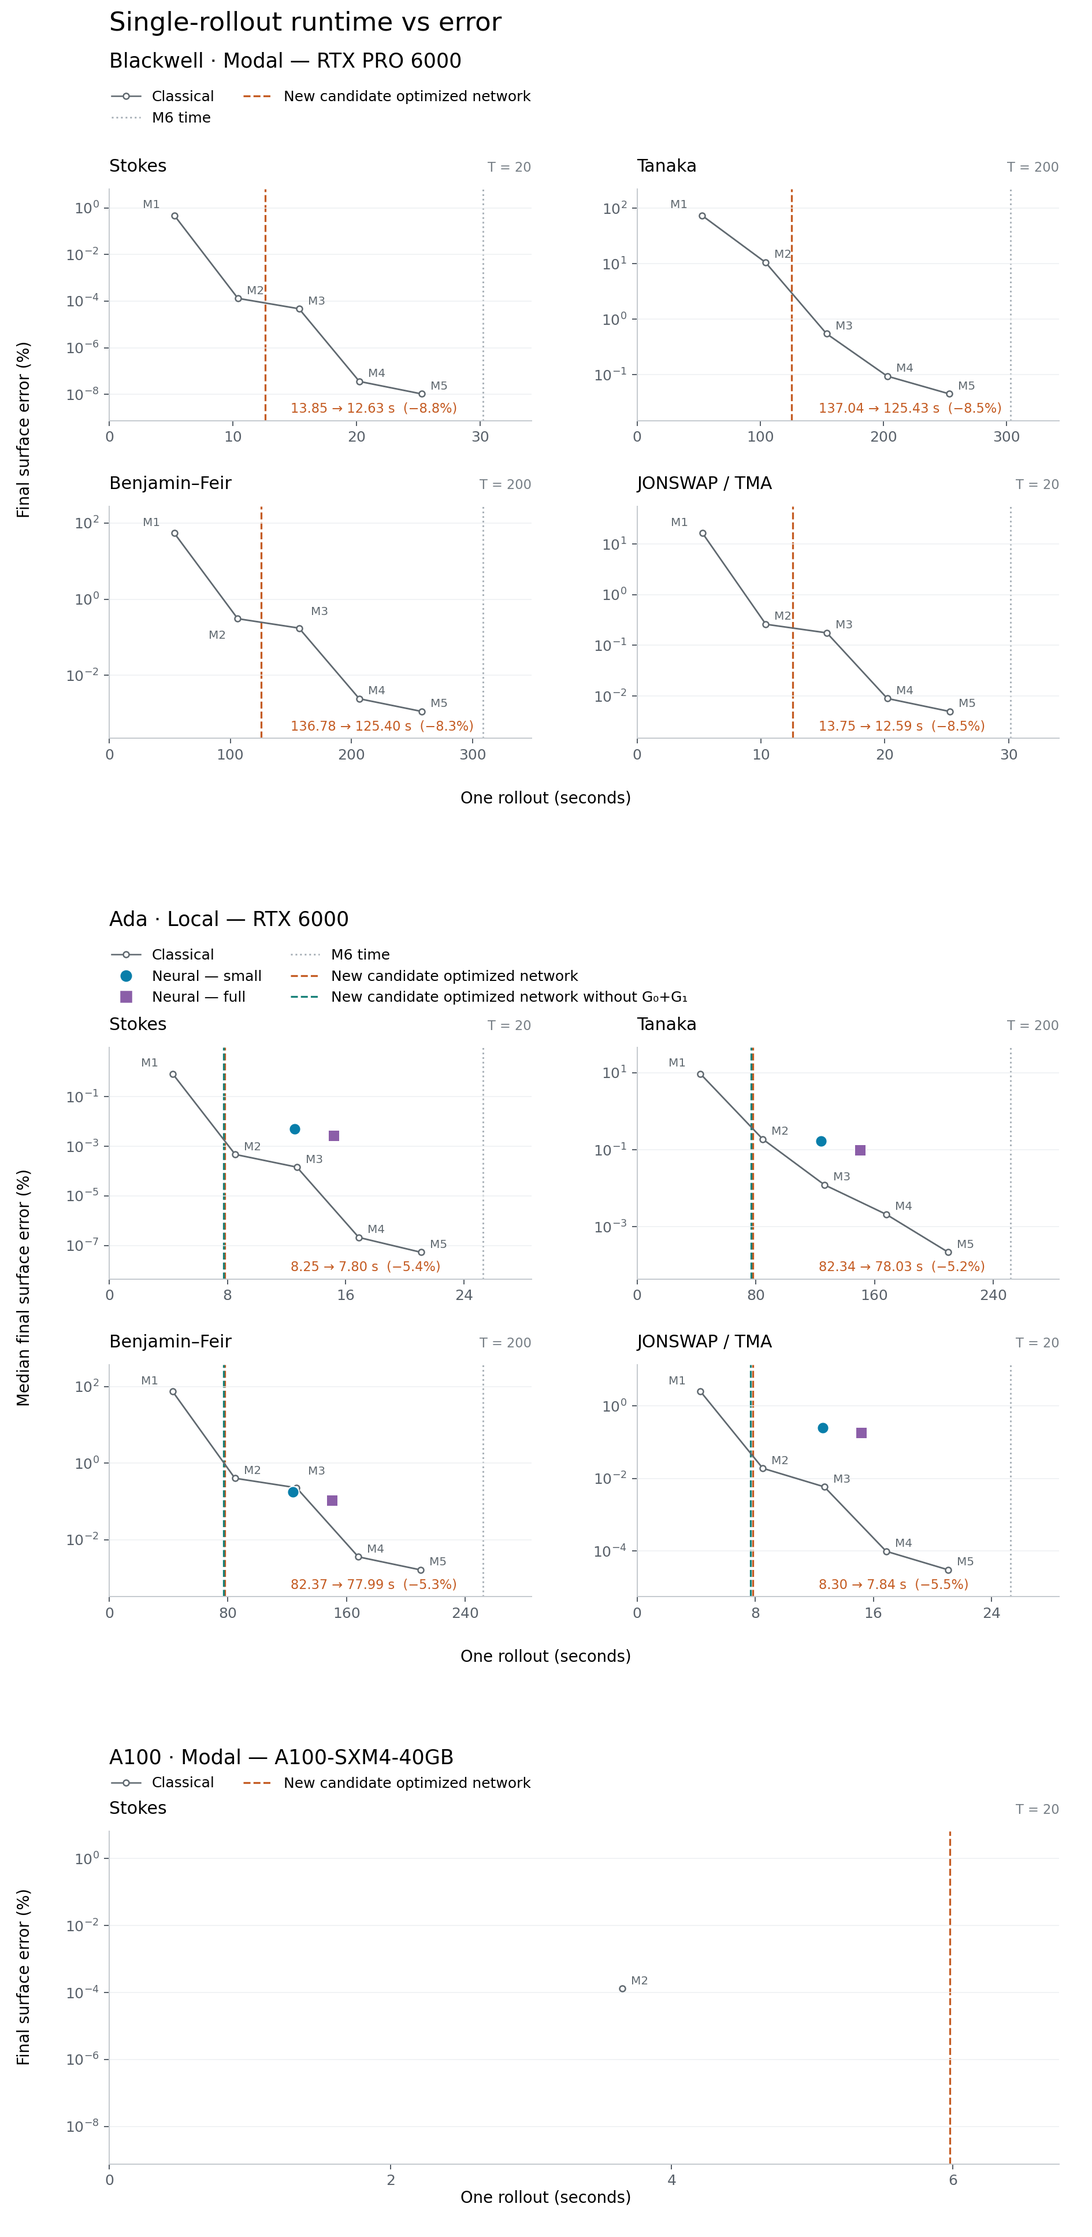
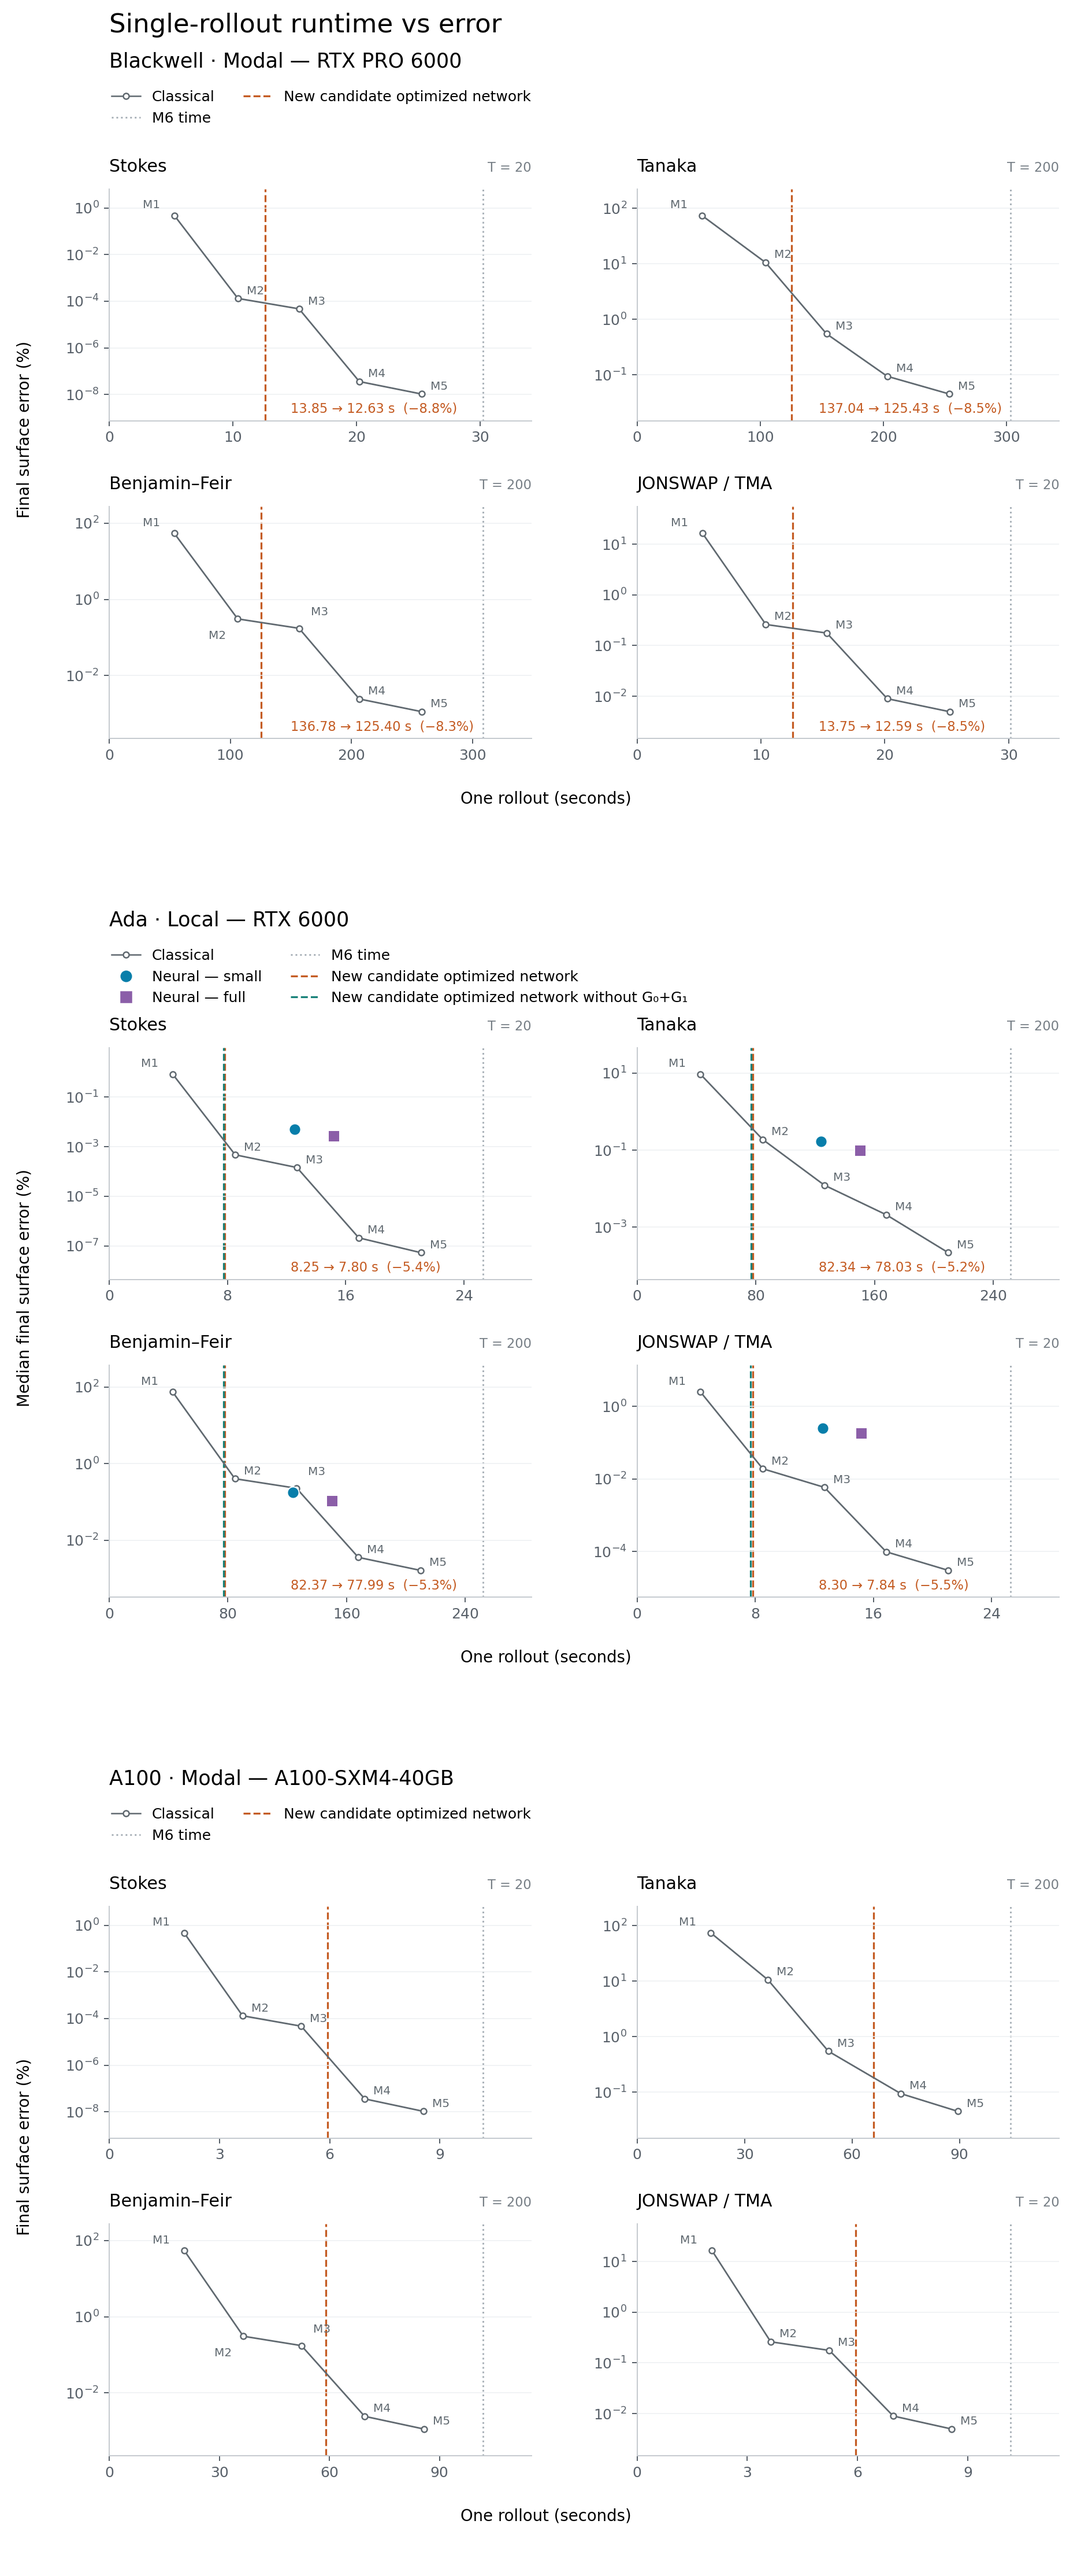
Complete A100 four-family rollout panel in Figure 12

diff --git a/paper-plots/plot_neural_advantage.py b/paper-plots/plot_neural_advantage.py
@@ -49,16 +49,13 @@ def draw_comparison(args: argparse.Namespace, fig: Figure | SubFigure, heading: 
         "axes.edgecolor": "#c6cbd0", "grid.color": "#edf0f2", "grid.linewidth": 0.6,
         "xtick.color": "#59616a", "ytick.color": "#59616a",
     })
-    families = tuple(item for item in FAMILIES if not args.single_case or item[0] in warm["families"])
-    single_panel = len(families) == 1
-    axes = fig.subplots(1 if single_panel else 2, 1 if single_panel else 2, squeeze=False)
+    axes = fig.subplots(2, 2)
     fig.subplots_adjust(left=0.10, right=0.97, bottom=0.14,
                         top=0.78 if candidate or baseline_free else 0.81, hspace=0.37, wspace=0.25)
-    has_m6 = False
-    for ax, (family, title) in zip(axes.flat, families, strict=True):
+    for ax, (family, title) in zip(axes.flat, FAMILIES, strict=True):
         if args.single_case:
             timing = warm["families"][family]
-            orders = np.asarray([order for order in range(1, 7) if f"M{order}" in timing["methods"]])
+            orders = np.arange(1, 7)
             seconds = np.asarray([np.median(timing["methods"][f"M{order}"]["seconds"]) for order in orders])
             errors = 100 * np.asarray([timing["methods"][f"M{order}"]["cached_reference_terminal_eta_error"] for order in orders])
             horizon = timing["horizon"]
@@ -82,10 +79,9 @@ def draw_comparison(args: argparse.Namespace, fig: Figure | SubFigure, heading: 
         ax.yaxis.set_major_locator(LogLocator(numticks=5))
         ax.yaxis.set_minor_locator(NullLocator())
         ax.grid(axis="y", zorder=0)
-        shown = orders != 6
-        ax.plot(seconds[shown], errors[shown], "o-", color="#606970", ms=4,
+        ax.plot(seconds[:-1], errors[:-1], "o-", color="#606970", ms=4,
                 markerfacecolor="white", lw=1.1, zorder=2)
-        for order, x, y in zip(orders[shown], seconds[shown], errors[shown], strict=True):
+        for order, x, y in zip(orders[:-1], seconds[:-1], errors[:-1], strict=True):
             offset = (8, 9) if family == "benjamin_feir" and order == 3 else (6, 3)
             if (candidate or baseline_free) and order == 1:
                 offset = (-22, 5)
@@ -93,9 +89,7 @@ def draw_comparison(args: argparse.Namespace, fig: Figure | SubFigure, heading: 
                 offset = (-20, -14)
             ax.annotate(f"M{order}", (x, y), xytext=offset, textcoords="offset points",
                         color="#606970", fontsize=8)
-        if 6 in orders:
-            has_m6 = True
-            ax.axvline(seconds[orders == 6][0], color="#aab2b9", ls=":", lw=1.2, zorder=1)
+        ax.axvline(seconds[-1], color="#aab2b9", ls=":", lw=1.2, zorder=1)
         right = float(seconds.max())
         for run, name, _label, color, marker in (() if args.single_case else RUNS):
             source = next((ROOT / "outputs" / run).glob(
@@ -137,7 +131,7 @@ def draw_comparison(args: argparse.Namespace, fig: Figure | SubFigure, heading: 
         Line2D([], [], color="#606970", marker="o", markerfacecolor="white", ms=4, lw=1, label="Classical"),
         *[Line2D([], [], color=color, marker=marker, ls="none", ms=7, label=f"Neural — {name}")
           for _, name, _, color, marker in (() if args.single_case else reversed(RUNS))],
-        *([Line2D([], [], color="#aab2b9", ls=":", lw=1.2, label="M6 time")] if has_m6 else []),
+        Line2D([], [], color="#aab2b9", ls=":", lw=1.2, label="M6 time"),
         *[Line2D([], [], color=color, ls="--", lw=1.3, label=label)
           for comparison, color, label in overlays if comparison],
     ], loc="upper left", bbox_to_anchor=(0.09, 0.895 if args.single_case and not heading else 0.91),
@@ -155,7 +149,7 @@ if __name__ == "__main__":
     parser.add_argument("--candidate-method", default="fused")
     parser.add_argument("--candidate-previous-method", help="Show the runtime reduction against this method in the same timing files.")
     parser.add_argument("--no-baseline-timings", type=Path, help="Overlay speed-only full rollouts with model G0+G1 omitted.")
-    parser.add_argument("--stack-hardware", action="store_true", help="Stack Blackwell, Ada, and the measured A100 Stokes comparison.")
+    parser.add_argument("--stack-hardware", action="store_true", help="Stack the four-family Blackwell, Ada, and A100 comparisons.")
     parser.add_argument("--single-case", action="store_true", help="Plot classical single-case errors against cached M6 and candidate timing lines, without archived model points.")
     parser.add_argument("--output-name", type=Path, help="Output stem, relative to paper-plots/figures or absolute.")
     args = parser.parse_args()
@@ -181,17 +175,19 @@ if __name__ == "__main__":
         modal.candidate_previous_method = "fused_front"
         modal.no_baseline_timings = None
         a100 = argparse.Namespace(**vars(modal))
-        a100.timings = ROOT / "outputs/modal_a100_20260925/stokes_rollouts.json"
-        a100.classical_timings = None
-        a100.candidate_timings = [a100.timings]
+        a100.timings = ROOT / "outputs/modal_a100_20260925_short_full/rollouts.json"
+        a100.classical_timings = [
+            ROOT / f"outputs/modal_a100_20260925_{family}_full/rollouts.json"
+            for family in ("tanaka", "bf")
+        ]
+        a100.candidate_timings = [a100.timings, *a100.classical_timings]
         a100.candidate_previous_method = None
-        fig = plt.figure(figsize=(10.5, 21.5))
+        fig = plt.figure(figsize=(10.5, 24.75))
         fig.suptitle("Single-rollout runtime vs error", y=0.995, fontsize=18, ha="left", x=0.10)
-        blackwell, ada, ampere = fig.subfigures(3, 1, height_ratios=(8.25, 8.25, 5))
+        blackwell, ada, ampere = fig.subfigures(3, 1)
         draw_comparison(modal, blackwell, "Blackwell · Modal — RTX PRO 6000")
         draw_comparison(args, ada, "Ada · Local — RTX 6000")
         draw_comparison(a100, ampere, "A100 · Modal — A100-SXM4-40GB")
-        ampere.axes[0].set_ylim(blackwell.axes[0].get_ylim())
     else:
         fig = plt.figure(figsize=(10.5, 8))
         draw_comparison(args, fig)

diff --git a/experiments/experiments-2026-09-25.md b/experiments/experiments-2026-09-25.md
@@ -16,3 +16,4 @@
 | 2026-09-25 | 20:18 | Reciprocal cuFFT library-version control | Modal used cuFFT11.4.1.4 versus local11.3.3.83, and the small FP64 kernel template differed; changing only the loaded library tests whether that version difference explains the slowdown. | On the same Modal GPU/container, default11.4 versus isolated11.3 gives neural step 6.08515→6.08441 ms, M2 5.24037→5.23495 ms, complex FFT1024 18.505→18.488 us. Old cuFFT restores the visible kernel-template parameter but not speed. On Ada, actually loading11.4 gives neural step3.96480 ms and FFT1024 10.154 us, versus original3.97496 ms/10.150 us. Actual process library mappings confirm both swaps. The first Ada overlay still loaded the original library and was rejected; use ada_cufft114_loaded, not ada_cufft114. Raw: outputs/modal_rtx6000_20260925_cufft_control/{default,old_cufft}, outputs/hardware_diagnosis_20260925/ada_cufft114_loaded. | Forward relative difference remains1.81e-9; all outputs finite. Other mapped CUDA libraries unchanged in the same-container Modal control. Package/global environments and clock settings untouched; isolated temporary installs only. Scoped Ruff and profiler Pyright pass; Modal is installed outside the project checker environment. | 00:02 same-container Modal control (18:36–18:38), with reciprocal Ada work in parallel; no full-rollout extension because no material improvement. | REJECT library-version and visible-template explanations. Retain component-level conclusion: slower small FP64 cuFFT execution plus host/driver submission overhead; the exact device-instruction/driver mechanism is unisolated. Every diagnostic Modal app stopped; document in existing profile note. |
 | 2026-09-25 | 20:47 | CUDA13.1 cuFFT on Modal Blackwell | NVIDIA documents Blackwell power-of-two FFT improvements in CUDA13.1, including FP64; the earlier comparison tested only CUDA12-era libraries. | Added one standalone driver-API benchmark and an optional isolated CUDA13 JAX environment in the existing Modal wrapper. Same RTX PRO6000/driver580.95.05, old/new/old separate processes,13 cases,256 FFTs per CUDA graph and seven repeats. cuFFT11.4.1.4→12.1.0.31: batch-one FP64 complex FFT1024 18.589→18.631 us, real forward16.902→16.892 us, inverse17.312→17.322 us; old repeat complex18.568 us. Same-model JAX0.9.2 diagnostics: neural6.11346→6.10228 ms/step, M2 5.26673→5.26837 ms/step. Actual loaded .so.11/.so.12 paths and library versions checked. Raw: outputs/modal_rtx6000_20260925_cuda131/. | PASS: all native cases finite/correct versus NumPy, max relative errors3.46e-16 FP64/1.83e-7 FP32. Both integrated forwards differ from production by1.81e-9; all16-step outputs finite. Active clocks2340–2347 MHz. Scoped Ruff/Pyright pass. Integrated CUDA stacks differ beyond cuFFT; native tests isolate the FFT path. | 00:12 launch-to-results interval (20:35–20:47), including image build and queued GPU allocation; GPU tests completed20:47. | REJECT as a speed optimization for these shapes. Keep the isolated diagnostic tooling; no production dependency changes, training, local GPU interference or Figure12 changes. No full-rollout extension for the negligible0.18% neural difference. Modal app completed normally. |
 | 2026-09-25 | 20:55 | Modal A100 inference and full Stokes timings | CUDA13.1 did not improve the Blackwell small-FP64-FFT bottleneck; testing A100 distinguishes a library-version issue from hardware-dependent execution and measures downstream benefit. | Reused native FFT/shared profiling/full-rollout scripts on A100-SXM4-40GB with the same CUDA12 image, JAX0.9.2, cuFFT11.4.1.4, driver580.95.05 and weights; rebuilt cuFFTDx for SM80. FP64 real FFT1024 is3.828 us versus Blackwell16.892 us. Clean neural/M2 step diagnostics3.04769/1.89468 ms versus6.11346/5.26673 ms. Three alternating full batch-one Stokes T20 rollouts: A100 neural5.97980 s and M2 3.64770 s, versus repeated Blackwell12.62991/10.70753 s. Neural improves2.11x, M2 improves2.94x; M2 remains1.64x faster on A100. Raw: outputs/modal_a100_20260925/. | PASS:13 native cases correct, FP64 error<=3.47e-16 and FP32<=1.83e-7; optimized/production shared forward agrees exactly on A100. Full trajectories finite, positive depth; cached-M6 terminal eta errors1.07998e-4 neural/1.31888e-6 M2, comparable to Blackwell1.08046e-4/1.31888e-6. Same case517582,2000 steps, dt0.01, four GL2 iterations and precision. A100 trace is heavily perturbed; conclusions use clean timings, not traced gap shares. | 00:02 launch-to-completion interval (20:52–20:54); results recorded20:55. | KEEP hardware comparison, not a code optimization. A100 improves both methods, especially classical M2. No new code, retraining, local GPU interference or Figure12 changes; personal Modal app stopped and GPU released. |
+| 2026-09-25 | 21:42 | Complete A100 four-family Figure12 panel | The Stokes-only measurement omitted three families and most classical orders; complete full-horizon repeats are needed to fill the requested hardware comparison. | Ran M1–M6 and the unchanged cuFFTDx candidate for all four families on three separate personal Modal A100-SXM4-40GB GPUs, three batch-one repeats per method (84 timings). Stokes/JONSWAP T20; Tanaka/BF T200. Candidate medians in that order: 5.9464/5.9514/66.0836/59.0919 s; M2: 3.6303/3.6383/36.5594/36.5521 s; M6: 10.1694/10.1669/104.3034/101.8188 s. Candidate runtime falls between M3 and M4 in every family. Raw: outputs/modal_a100_20260925_{short,tanaka,bf}_full/rollouts.json. Replaced the partial A100 block with four panels in Figure12 PNG/PDF, preserving Blackwell/Ada sources. | PASS: all 28 returned method/family trajectories finite with positive depth; three timings each. M6 maximum cached-reference surface discrepancy 4.991e-12. N1024, dt0.01, four GL2 iterations, unchanged precision and weights. Classical plot errors use cached M6; candidate is timing-only. Visual inspection, scoped Ruff/Pyright and all-record integrity checks pass. | 00:25 concurrent benchmark interval (21:16–21:41); figure rendered21:42. | KEEP complete A100 panel and measured medians. No training, new benchmark code, local GPU use, or production changes. All three Modal apps stopped with zero tasks. |

diff --git a/notes/dno_profile_20260924.md b/notes/dno_profile_20260924.md
@@ -615,5 +615,33 @@ Raw results: `outputs/modal_a100_20260925/{native.json,hardware/,stokes_rollouts
 Blackwell full-rollout comparator: `outputs/modal_rtx6000_20260925_repeat_stokes/rollouts.json`.
 Reused existing scripts with `DNO_MODAL_GPU=A100` and cuFFTDx `--sm 80`;
 no training or production dependency changes. The Modal app completed and
-released its GPU. Figure12 now includes these measured A100 Stokes results
-below Blackwell and Ada: one M2 accuracy point and a candidate timing line.
+released its GPU. These initial Stokes measurements motivated the complete
+four-family comparison below.
+
+### A100 full four-family panel — September 25
+
+Completed three full single-rollout repeats for classical M1–M6 and the
+unchanged candidate in every family: 84 timings total. Three personal Modal
+A100 jobs ran concurrently on separate GPUs, with one rollout per GPU at a
+time. Stokes/JONSWAP use T20 and2000 steps; Tanaka/Benjamin–Feir use T200 and
+20000 steps. All retain N1024, dt0.01, four GL2 iterations, FP64 classical
+arithmetic/integration, FP32 learned inference, and the shared optimized
+baseline implementation. Timings exclude compilation and transfers.
+
+| Family | M1 | M2 | M3 | M4 | M5 | M6 | Candidate |
+| --- | ---: | ---: | ---: | ---: | ---: | ---: | ---: |
+| Stokes | 2.0415 | 3.6303 | 5.2251 | 6.9552 | 8.5531 | 10.1694 | 5.9464 |
+| Tanaka | 20.6404 | 36.5594 | 53.3955 | 73.6432 | 89.5786 | 104.3034 | 66.0836 |
+| Benjamin–Feir | 20.4769 | 36.5521 | 52.3885 | 69.6011 | 85.7606 | 101.8188 | 59.0919 |
+| JONSWAP/TMA | 2.0413 | 3.6383 | 5.2347 | 6.9715 | 8.5646 | 10.1669 | 5.9514 |
+
+Entries are median seconds. The candidate's A100 runtime lies between M3 and
+M4 in every family. All returned trajectories are finite with positive fluid
+depth; M6's maximum relative surface discrepancy against cached M6 is
+4.991e-12 across the four families. Figure12 now contains complete four-family
+blocks for Blackwell, Ada and A100. Classical errors use cached M6; the
+candidate remains a vertical timing line, without an accuracy point.
+
+Raw results: `outputs/modal_a100_20260925_{short,tanaka,bf}_full/rollouts.json`.
+The short file contains Stokes and JONSWAP/TMA. All three Modal apps stopped
+with zero tasks. No training, local GPU work or production-code changes.

diff --git a/paper-plots/README.md b/paper-plots/README.md
@@ -170,8 +170,8 @@ Stokes and JONSWAP/TMA. These conclusions use one timing sample per method/famil
 ### 12-potential-new-nn
 
 [PNG](figures/12-potential-new-nn.png) / [PDF](figures/12-potential-new-nn.pdf).
-Blackwell/Modal panels are on top, with the original Ada/local panels below.
-Both hardware sections show the candidate's measured runtimes as orange
+Blackwell/Modal panels are on top, Ada/local in the middle, and A100/Modal below.
+All three hardware sections show the candidate's measured runtimes as orange
 vertical lines, without assigning accuracy to the one-epoch timing checkpoint.
 The Blackwell measurements are described in the next subsection. The following
 describes the Ada panels, which extend figure 11. The latest update fuses each FP64 G1 multiplier/product
@@ -218,10 +218,12 @@ Benjamin–Feir produced non-finite saved states. The full requested step count
 was executed in every case. Figure12 uses the label "New candidate optimized
 network" and has no explanatory footnotes; numerical outcomes and
 timings are recorded in `experiments/experiments-2026-09-25.md` and the raw results.
-The stacked figure now adds an A100 Stokes panel below Blackwell and Ada, using
-`outputs/modal_a100_20260925/stokes_rollouts.json`: M2 at3.6477 s and the candidate
-timing line at5.9798 s (medians of three full rollouts). Its M2 error uses the
-cached M6 reference; no unmeasured A100 orders, families or M6 runtime are drawn.
+The A100 section covers all four families, with classical M1–M6 and the
+candidate each timed over three complete batch-one rollouts. Its curves use
+the classical errors against cached M6; the candidate remains a timing line.
+Inputs are `outputs/modal_a100_20260925_{short,tanaka,bf}_full/rollouts.json`;
+the short-family file contains both Stokes and JONSWAP/TMA. These replace the
+earlier Stokes-only A100 panel.
 This update does not regenerate figure 11, the manuscript or the ZIP. Reproduce with:
 
 ```sh

diff --git a/EXPERIMENTS.md b/EXPERIMENTS.md
@@ -33,11 +33,11 @@ could not be recovered at all are in
 
 ## Dated logs
 
-77 files, 1079 rows.
+77 files, 1080 rows.
 
 | Date | Rows | File | Size |
 | --- | --- | --- | --- |
-| 2026-09-25 | 16 | [`experiments/experiments-2026-09-25.md`](experiments/experiments-2026-09-25.md) | 22 KB |
+| 2026-09-25 | 17 | [`experiments/experiments-2026-09-25.md`](experiments/experiments-2026-09-25.md) | 24 KB |
 | 2026-09-24 | 19 | [`experiments/experiments-2026-09-24.md`](experiments/experiments-2026-09-24.md) | 33 KB |
 | 2026-09-23 | 9 | [`experiments/experiments-2026-09-23.md`](experiments/experiments-2026-09-23.md) | 17 KB |
 | 2026-09-22 | 4 | [`experiments/experiments-2026-09-22.md`](experiments/experiments-2026-09-22.md) | 5 KB |
